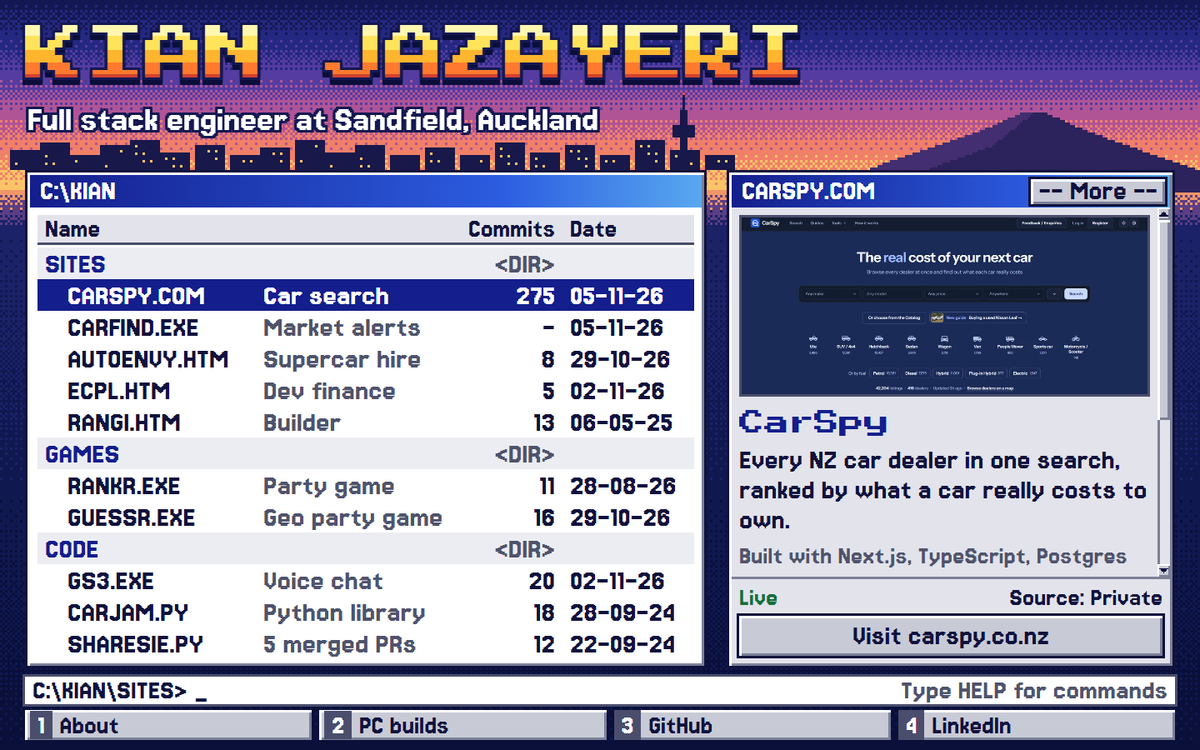
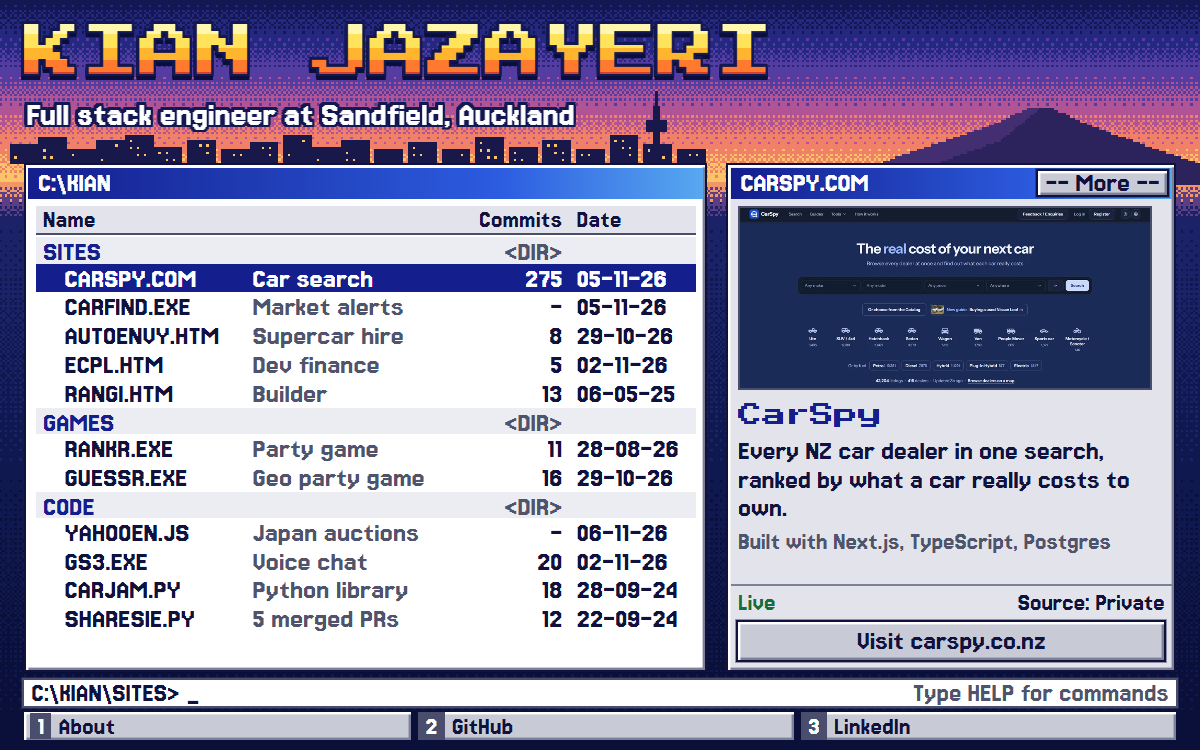
Remove PC builds, add Yahoo Auctions and PangoGuessr source
Remove the PC builds panel, command, key and images, and renumber the
remaining keys. Add the Yahoo Auctions project to the CODE folder and link
PangoGuessr's now-public source.

Tighten list rows so eleven projects fit the fixed screen without
scrolling, let About span the top row of keys on phones, and retake the
social image.

diff --git a/my-app/src/App.tsx b/my-app/src/App.tsx
@@ -4,20 +4,19 @@ import {
   FOLDERS,
   GITHUB,
   LINKEDIN,
-  PC_BUILDS,
   ProjectFile,
   SKILLS,
   pullRequestUrl,
 } from './data';
 import './App.css';
 
-type Panel = 'file' | 'about' | 'pcbuilds';
+type Panel = 'file' | 'about';
 
 const fileById = (id: string) => FILES.find((f) => f.id === id);
 
 const readHash = (): { panel: Panel; id: string } => {
   const hash = window.location.hash.slice(1).toLowerCase();
-  if (hash === 'about' || hash === 'pcbuilds') return { panel: hash, id: FILES[0].id };
+  if (hash === 'about') return { panel: hash, id: FILES[0].id };
   return { panel: 'file', id: fileById(hash)?.id ?? FILES[0].id };
 };
 
@@ -149,23 +148,6 @@ function About() {
   );
 }
 
-function PcBuilds() {
-  return (
-    <>
-      <h3 className="pv__name">PC builds</h3>
-      <p className="pv__text">I also love building PCs. Here are four of them.</p>
-      <ul className="builds">
-        {PC_BUILDS.map((b) => (
-          <li key={b.title}>
-            <img src={b.src} alt={b.alt} loading="lazy" />
-            <span>{b.title}</span>
-          </li>
-        ))}
-      </ul>
-    </>
-  );
-}
-
 function App() {
   const initial = useMemo(readHash, []);
   const [panel, setPanel] = useState<Panel>(initial.panel);
@@ -282,9 +264,8 @@ function App() {
       else if (e.key === 'Home') move(0);
       else if (e.key === 'End') move(FILES.length - 1);
       else if (e.key === '1') showPanel('about');
-      else if (e.key === '2') showPanel('pcbuilds');
-      else if (e.key === '3') openExternal(GITHUB);
-      else if (e.key === '4') openExternal(LINKEDIN);
+      else if (e.key === '2') openExternal(GITHUB);
+      else if (e.key === '3') openExternal(LINKEDIN);
       else if (/^[a-z]$/i.test(e.key)) document.getElementById('cmd')?.focus();
     };
     window.addEventListener('keydown', onKey);
@@ -319,15 +300,12 @@ function App() {
       );
 
     if (verb === 'help') {
-      setReply('DIR, CD <folder>, RUN <file>, ABOUT, PCBUILDS, GITHUB, LINKEDIN');
+      setReply('DIR, CD <folder>, RUN <file>, ABOUT, GITHUB, LINKEDIN');
     } else if (verb === 'dir') {
       setReply(`${FILES.length} files in ${FOLDERS.length} folders`);
     } else if (verb === 'about' || raw === 'about.txt') {
       showPanel('about');
       setReply('Opened ABOUT.TXT');
-    } else if (verb === 'pcbuilds') {
-      showPanel('pcbuilds');
-      setReply('Opened PCBUILDS');
     } else if (verb === 'github' || verb === 'linkedin') {
       openExternal(verb === 'github' ? GITHUB : LINKEDIN);
       setReply(`Opened ${verb.toUpperCase()}`);
@@ -353,7 +331,7 @@ function App() {
     }
   };
 
-  const panelTitle = panel === 'about' ? 'ABOUT.TXT' : panel === 'pcbuilds' ? 'PCBUILDS' : selected.file;
+  const panelTitle = panel === 'about' ? 'ABOUT.TXT' : selected.file;
   const path = panel === 'file' ? `C:\\KIAN\\${selected.folder}>` : 'C:\\KIAN>';
 
   return (
@@ -432,7 +410,6 @@ function App() {
           <div className="pv" ref={previewBody} tabIndex={0} aria-label={`${panelTitle} contents`}>
             {panel === 'file' && <FileDetails file={selected} onZoom={() => setZoomed(true)} />}
             {panel === 'about' && <About />}
-            {panel === 'pcbuilds' && <PcBuilds />}
           </div>
           {panel === 'file' && (
             <div className="strip">
@@ -492,14 +469,11 @@ function App() {
         <button type="button" className="btn key" aria-current={panel === 'about' ? 'true' : undefined} onClick={() => { showPanel('about'); scrollToPreview(); }}>
           <i>1</i>About
         </button>
-        <button type="button" className="btn key" aria-current={panel === 'pcbuilds' ? 'true' : undefined} onClick={() => { showPanel('pcbuilds'); scrollToPreview(); }}>
-          <i>2</i>PC builds
-        </button>
         <a className="btn key" href={GITHUB} target="_blank" rel="noreferrer">
-          <i>3</i>GitHub
+          <i>2</i>GitHub
         </a>
         <a className="btn key" href={LINKEDIN} target="_blank" rel="noreferrer">
-          <i>4</i>LinkedIn
+          <i>3</i>LinkedIn
         </a>
       </nav>
 

diff --git a/my-app/src/data.ts b/my-app/src/data.ts
@@ -6,10 +6,7 @@ import rangi from './assets/shots/rangi.webp';
 import rankr from './assets/shots/rankr.webp';
 import guessr from './assets/shots/guessr.webp';
 import gs3 from './assets/shots/gs3.webp';
-import pcWhite from './assets/pc/white.webp';
-import pcNuka from './assets/pc/nukacola.webp';
-import pcMine from './assets/pc/mypc.webp';
-import pcRgb from './assets/pc/rgb.webp';
+import yahoo from './assets/shots/yahoo.webp';
 
 export type Folder = 'SITES' | 'GAMES' | 'CODE';
 
@@ -191,13 +188,35 @@ export const FILES: ProjectFile[] = [
     ],
     credit: 'Shared project: 16 of 31 commits are mine',
     status: 'No public link yet',
-    source: 'Private',
+    source: 'Public',
     stack: 'React, TypeScript, Express, WebSockets',
-    links: [],
+    links: [{ label: 'Source on GitHub', href: 'https://github.com/kianz20/PangoGuessr' }],
     shot: {
       src: guessr,
       focus: '50% 70%',
       alt: 'PangoGuessr round results showing a world map with a guess in Africa, the answer at Cape Town, and the distance between them.',
+    },
+  },
+  {
+    id: 'yahoo',
+    file: 'YAHOOEN.JS',
+    folder: 'CODE',
+    name: 'Yahoo Auctions',
+    blurb: 'Japan auctions',
+    commits: null,
+    date: '06-11-26',
+    spokenDate: '6 November 2026',
+    text: [
+      'My own unofficial way to browse Yahoo! Auctions Japan in English, with prices in NZD.',
+      'Search in English and it translates your words to Japanese, showing the query so you can check it. Listings are translated by Chrome\'s on-device translator, and the whole thing runs on your own computer with no packages to install. It\'s for browsing only: to bid, you still use Yahoo or a proxy service.',
+    ],
+    status: 'Runs locally',
+    source: 'Public',
+    stack: 'JavaScript, Node, Chrome Translator API',
+    links: [{ label: 'Source on GitHub', href: 'https://github.com/kianz20/yahoo-auctions-en' }],
+    shot: {
+      src: yahoo,
+      alt: 'Search results for "toyota supra" with listing titles in English, prices in NZD and yen, bid counts and time remaining.',
     },
   },
   {
@@ -271,12 +290,5 @@ export const pullRequestUrl = (n: number) => `${SHARESIES_REPO}/pull/${n}`;
 
 export const GITHUB = 'https://github.com/kianz20';
 export const LINKEDIN = 'https://www.linkedin.com/in/kian-jazayeri-976614220/';
-
-export const PC_BUILDS = [
-  { src: pcWhite, title: 'White', alt: 'White PC with a white liquid cooler and GeForce RTX graphics card.' },
-  { src: pcNuka, title: 'Nuka-Cola', alt: 'NZXT PC with a custom Nuka-Cola painted side panel and red cables.' },
-  { src: pcMine, title: 'My PC', alt: 'Dual-chamber glass PC lit with rainbow light strips.' },
-  { src: pcRgb, title: 'RGB', alt: 'Black PC with three large fans glowing pink and blue.' },
-];
 
 export const SKILLS = 'Java, Python, JavaScript, TypeScript, React, Rust, C#, SQL, PHP, MATLAB, GDScript';

diff --git a/my-app/src/App.test.tsx b/my-app/src/App.test.tsx
@@ -33,12 +33,12 @@ test('arrow keys move the selection and update the preview', () => {
   expect(screen.getByRole('heading', { level: 3, name: 'Sharesies API' })).toBeInTheDocument();
 });
 
-test('number keys open About and PC builds', () => {
+test('the keys are About, GitHub and LinkedIn', () => {
   render(<App />);
   fireEvent.keyDown(window, { key: '1' });
   expect(screen.getByRole('heading', { name: "Hi! I'm Kian." })).toBeInTheDocument();
-  fireEvent.keyDown(window, { key: '2' });
-  expect(screen.getByRole('heading', { name: 'PC builds' })).toBeInTheDocument();
+  const keys = Array.from(screen.getByRole('navigation').children).map((k) => k.textContent);
+  expect(keys).toEqual(['1About', '2GitHub', '3LinkedIn']);
 });
 
 test('the command line runs commands and reports bad ones', () => {
@@ -54,6 +54,9 @@ test('the command line runs commands and reports bad ones', () => {
   expect(screen.getByRole('heading', { level: 3, name: 'GS3' })).toBeInTheDocument();
   send('format c:');
   expect(screen.getByRole('status')).toHaveTextContent(/bad command/i);
+  send('gs3');
+  send('pcbuilds');
+  expect(screen.getByRole('status')).toHaveTextContent(/bad command/i);
 });
 
 test('only public or verified links are offered', () => {
@@ -64,4 +67,15 @@ test('only public or verified links are offered', () => {
   const panel = screen.getByRole('region', { name: 'ECPL.HTM' });
   expect(within(panel).getByRole('heading', { level: 3, name: 'ECPL' })).toBeInTheDocument();
   expect(within(panel).queryByRole('link')).toBeNull();
+});
+
+test.each([
+  ['guessr', 'GUESSR.EXE', 'https://github.com/kianz20/PangoGuessr'],
+  ['yahoo', 'YAHOOEN.JS', 'https://github.com/kianz20/yahoo-auctions-en'],
+])('%s links to its public source', (id, file, href) => {
+  window.location.hash = `#${id}`;
+  render(<App />);
+  const panel = screen.getByRole('region', { name: file });
+  expect(within(panel).getByRole('link', { name: 'Source on GitHub' })).toHaveAttribute('href', href);
+  expect(within(panel).getByText('Source: Public')).toBeInTheDocument();
 });

diff --git a/my-app/src/App.css b/my-app/src/App.css
@@ -182,7 +182,7 @@
   display: grid;
   grid-template-columns: 26.2rem 1fr 12.4rem 14rem;
   align-items: center;
-  height: 3.8rem;
+  height: 3.3rem;
   padding: 0 0.9rem;
   font-size: 3.7rem;
   background: #ecedf2;
@@ -209,7 +209,7 @@
 
 .row {
   width: 100%;
-  height: 3.8rem;
+  height: 3.6rem;
   padding: 0 0.9rem;
   border: 0;
   font: inherit;
@@ -246,7 +246,7 @@
   outline-color: #ffe35a;
 }
 
-/* The list keeps a resting cursor while About or PC builds is open. */
+/* The list keeps a resting cursor while About is open. */
 .row--rest {
   background: var(--key);
 }
@@ -386,27 +386,6 @@
 
 .facts--stack {
   grid-template-columns: 1fr;
-}
-
-.builds {
-  list-style: none;
-  margin: 1.2rem 0 0;
-  padding: 0;
-  display: grid;
-  grid-template-columns: 1fr 1fr;
-  gap: 1.2rem;
-  font-size: 3.3rem;
-  text-align: center;
-}
-
-.builds img {
-  display: block;
-  width: 100%;
-  aspect-ratio: 4 / 5;
-  object-fit: cover;
-  background: #fff;
-  outline: 0.3rem solid var(--bevel-ink);
-  outline-offset: -0.3rem;
 }
 
 .pv__actions {
@@ -784,10 +763,6 @@
     grid-template-columns: 1fr;
   }
 
-  .builds {
-    font-size: 2.6rem;
-  }
-
   .code {
     font-size: 2rem;
   }
@@ -826,6 +801,11 @@
   .key {
     height: 4.8rem;
     font-size: 2.8rem;
+  }
+
+  /* Three keys: About takes the top row, GitHub and LinkedIn share the next. */
+  .key:first-child {
+    grid-column: 1 / -1;
   }
 
   .viewer__bar h2 {

diff --git a/my-app/public/index.html b/my-app/public/index.html
@@ -10,7 +10,7 @@
       content="Kian Jazayeri is a full stack engineer at Sandfield in Auckland. Browse Kian's personal projects as a 16-bit file system: car search, business sites, party games and open source."
     />
     <meta property="og:title" content="Kian Jazayeri" />
-    <meta property="og:description" content="Full stack engineer in Auckland. Ten personal projects, shown as a 16-bit file system." />
+    <meta property="og:description" content="Full stack engineer in Auckland. Eleven personal projects, shown as a 16-bit file system." />
     <meta property="og:type" content="website" />
     <meta property="og:url" content="https://kianz20.github.io/" />
     <meta property="og:image" content="https://kianz20.github.io/og.png" />

diff --git a/DESIGN.md b/DESIGN.md
@@ -122,12 +122,12 @@ components:
     textColor: "{colors.blue}"
     typography: "{typography.list}"
     padding: "0 0.9rem"
-    height: "3.8rem"
+    height: "3.3rem"
   file-row:
     textColor: "{colors.ink}"
     typography: "{typography.list}"
     padding: "0 0.9rem"
-    height: "3.8rem"
+    height: "3.6rem"
   file-row-hover:
     backgroundColor: "{colors.row-hover}"
   file-row-selected:
@@ -189,7 +189,7 @@ One shipped exception is recorded here and is not part of the system: in the sta
 
 **Key Characteristics:**
 - A fixed virtual screen of 144 by 90rem, scaled to fit
-- Two bevelled windows, a command line and four numbered keys, all visible at once
+- Two bevelled windows, a command line and three numbered keys, all visible at once
 - Bitmap faces at weight 400 with font smoothing off
 - Square corners and zero-blur edges throughout
 - Warm dusk outside the windows, cool panels inside them
@@ -252,7 +252,7 @@ Cool blues and greys hold the interface, while a hot, banded sunset stays behind
 - **Window title** (400, 3.6rem on a 3.9rem line): title bars. Stacked: 2.8rem on 3.6rem.
 - **Body** (400, 3.6rem, line height 1, max 62ch): preview text and action buttons. Stacked: 2.8rem at line height 1.05.
 - **Command** (400, 3.5rem): the command line.
-- **Label** (400, 3.3rem, line height 1): column headers, keys, facts and PC build captions. Stacked: 2.6 to 2.8rem.
+- **Label** (400, 3.3rem, line height 1): column headers, keys and facts. Stacked: 2.6 to 2.8rem.
 - **Caption** (400, 3.2rem, line height 1): the stack line and status strip. A pull request list runs at 3rem. Stacked: 2.6rem.
 - **Code** (400, 3rem, line height 1.12): code blocks only. Stacked: 2rem.
 
@@ -268,9 +268,9 @@ Cool blues and greys hold the interface, while a hot, banded sunset stays behind
 
 The page is one fixed screen. At a 1440 by 900 display, 1rem is 10px, and the root size is the smaller of 100vw/144 and 100dvh/90, rounded down to a whole pixel where `round()` exists. Every length is in rem, so the composition scales as one object, like a console game. Windows wider than 16:10 stretch the desk and repeat the sky, with the city pinned left and Rangitoto pinned right.
 
-Desktop spacing follows the art grid, with one art pixel equal to 0.3rem: most gaps are 0.3, 0.6, 0.9, 1.2 or 2.4rem. Screen margins are 3rem. The name sits top left over the scene, the desk fills the middle in two columns at 1.52 to 1 with a 2.4rem gap, and the command line and key row span the bottom. File rows use a four-column grid (26.2rem, flexible, 12.4rem, 14rem) for name, description, commits and date. Rows are 3.8rem tall with no gaps, which is what keeps ten projects and three folders on one screen.
+Desktop spacing follows the art grid, with one art pixel equal to 0.3rem: most gaps are 0.3, 0.6, 0.9, 1.2 or 2.4rem. Screen margins are 3rem. The name sits top left over the scene, the desk fills the middle in two columns at 1.52 to 1 with a 2.4rem gap, and the command line and key row span the bottom. File rows use a four-column grid (26.2rem, flexible, 12.4rem, 14rem) for name, description, commits and date. Rows are 3.6rem tall and folder bands 3.3rem, with no gaps, which is what keeps eleven projects and three folders on one screen.
 
-Below 900 wide or 560 tall, the root size locks to 10px and the page scrolls. The order becomes masthead, file list, keys in a two-column grid, then preview. Column headers, commit and date columns, the command line and the beacon all drop away, the scene draws at two times its art size (96 by 60rem) behind the top of the page, rows grow to 4.8rem for touch, and a "Back to files" control closes the preview window.
+Below 900 wide or 560 tall, the root size locks to 10px and the page scrolls. The order becomes masthead, file list, keys in a two-column grid with About across the top, then preview. Column headers, commit and date columns, the command line and the beacon all drop away, the scene draws at two times its art size (96 by 60rem) behind the top of the page, rows grow to 4.8rem for touch, and a "Back to files" control closes the preview window.
 
 **The Whole-Pixel Rule.** Rem steps through whole pixels so bevels and pixel art stay crisp. New measurements stay in rem, and new desktop gaps land on multiples of 0.3rem.
 
@@ -315,7 +315,7 @@ The signature component and the site's main navigation.
 - **Column header:** grey band with a 0.3rem Bevel Ink rule beneath, desktop only.
 - **Folder band:** Folder Band ground, name in Commander Blue, `<DIR>` in Muted Slate aligned with the commits column.
 - **Rows:** names indent 2.7rem under their folder, descriptions are Muted Slate, numbers align right, and dates are DD-MM-YY.
-- **Hover / Selected:** hover tints to Row Hover. Selected fills Commander Blue with all text white. While About or PC builds is open, the row holds a Keycap Grey resting cursor.
+- **Hover / Selected:** hover tints to Row Hover. Selected fills Commander Blue with all text white. While About is open, the row holds a Keycap Grey resting cursor.
 - **Keys:** arrows, Home and End move the selection, wrapping at the ends. A keyboard press on the selected row opens the file, as does a double click.
 
 ### Preview
@@ -331,7 +331,7 @@ The signature component and the site's main navigation.
 - **Hover / Focus:** hover lightens to Keycap Hover with no transition. Active swaps to the pressed bevel. Focus is a 0.3rem Focus Rust ring drawn inside the edge.
 
 ### Navigation
-- **Style:** four function keys in a row, each a raised bevel with a white numeral on a Bevel Ink block at the left, then a Label text. Keys 1 to 4 on the keyboard press them.
+- **Style:** three function keys in a row, each a raised bevel with a white numeral on a Bevel Ink block at the left, then a Label text. Keys 1 to 3 on the keyboard press them.
 - **Current:** Commander Blue fill, white text, bevel removed.
 - **Mobile:** a two-by-two grid at 4.8rem tall between the file list and preview.
 

diff --git a/PRODUCT.md b/PRODUCT.md
@@ -31,7 +31,7 @@ Visitors read on a phone from a shared link, or on a desktop while evaluating Ki
 ## Capabilities and Constraints
 
 - Source lives in `my-app/` on `main`. Create React App with TypeScript, deployed by `npm run deploy` to the `gh-pages` branch.
-- Most project repos are private. Link source only where it is public: `kianz20/pango-garage`, `jontymorris/Sharesies-API`, `kianz20/car-finder-releases`, and GS3 at `forge.elsie.cafe/E91/GS3` (publicly readable when checked on 2026-11-06). Label the others as private source.
+- Most project repos are private. Link source only where it is public: `kianz20/pango-garage`, `kianz20/PangoGuessr`, `kianz20/yahoo-auctions-en`, `jontymorris/Sharesies-API`, `kianz20/car-finder-releases`, and GS3 at `forge.elsie.cafe/E91/GS3` (publicly readable when checked on 2026-11-06). Label the others as private source.
 - Never show GS3 chats or member handles, or PangoRankr's Sandfield category, in screenshots: they contain real people's details.
 - Several projects are not live. They are shown through screenshots and are not linked, as Kian directed on 2026-11-05.
 - `ecpl.co.nz` belongs to an unrelated roofing company. Never link it for the ECPL project.
@@ -48,6 +48,7 @@ Projects, grouped as Kian grouped them:
 
 - **Sites and platforms:** Car Finder, CarSpy, ECPL, AutoEnvy, Rangi Construction.
 - **Games:** PangoRankr (repo `pango-garage`), PangoGuessr (shared project; Kian has 16 of 31 commits). Kian replaced PangoGaming with PangoGuessr on 2026-11-06.
+- **Tools, own:** Yahoo Auctions in English (repo `yahoo-auctions-en`), browses Yahoo! Auctions Japan in English with NZD prices and runs locally. Its repo has one initial commit, so the site shows no commit count.
 - **Open source, contributed:** Sharesies-API, with five merged pull requests (#19 to #23) adding auto invest, weekly top 10, and wallet methods, and fixing bugs.
 - **Open source, own:** CarJam-API, published on PyPI as `carjam`.
 - **Team project:** GS3, a Rust Matrix client with first-class voice and a Discord voice bridge. Kian has 20 of its 44 commits and reports writing 99% of the code in those commits. Git history shows those commits hold about 94% of all lines added, excluding lockfiles. Credit Kian with the code and still name it as a shared repo.
